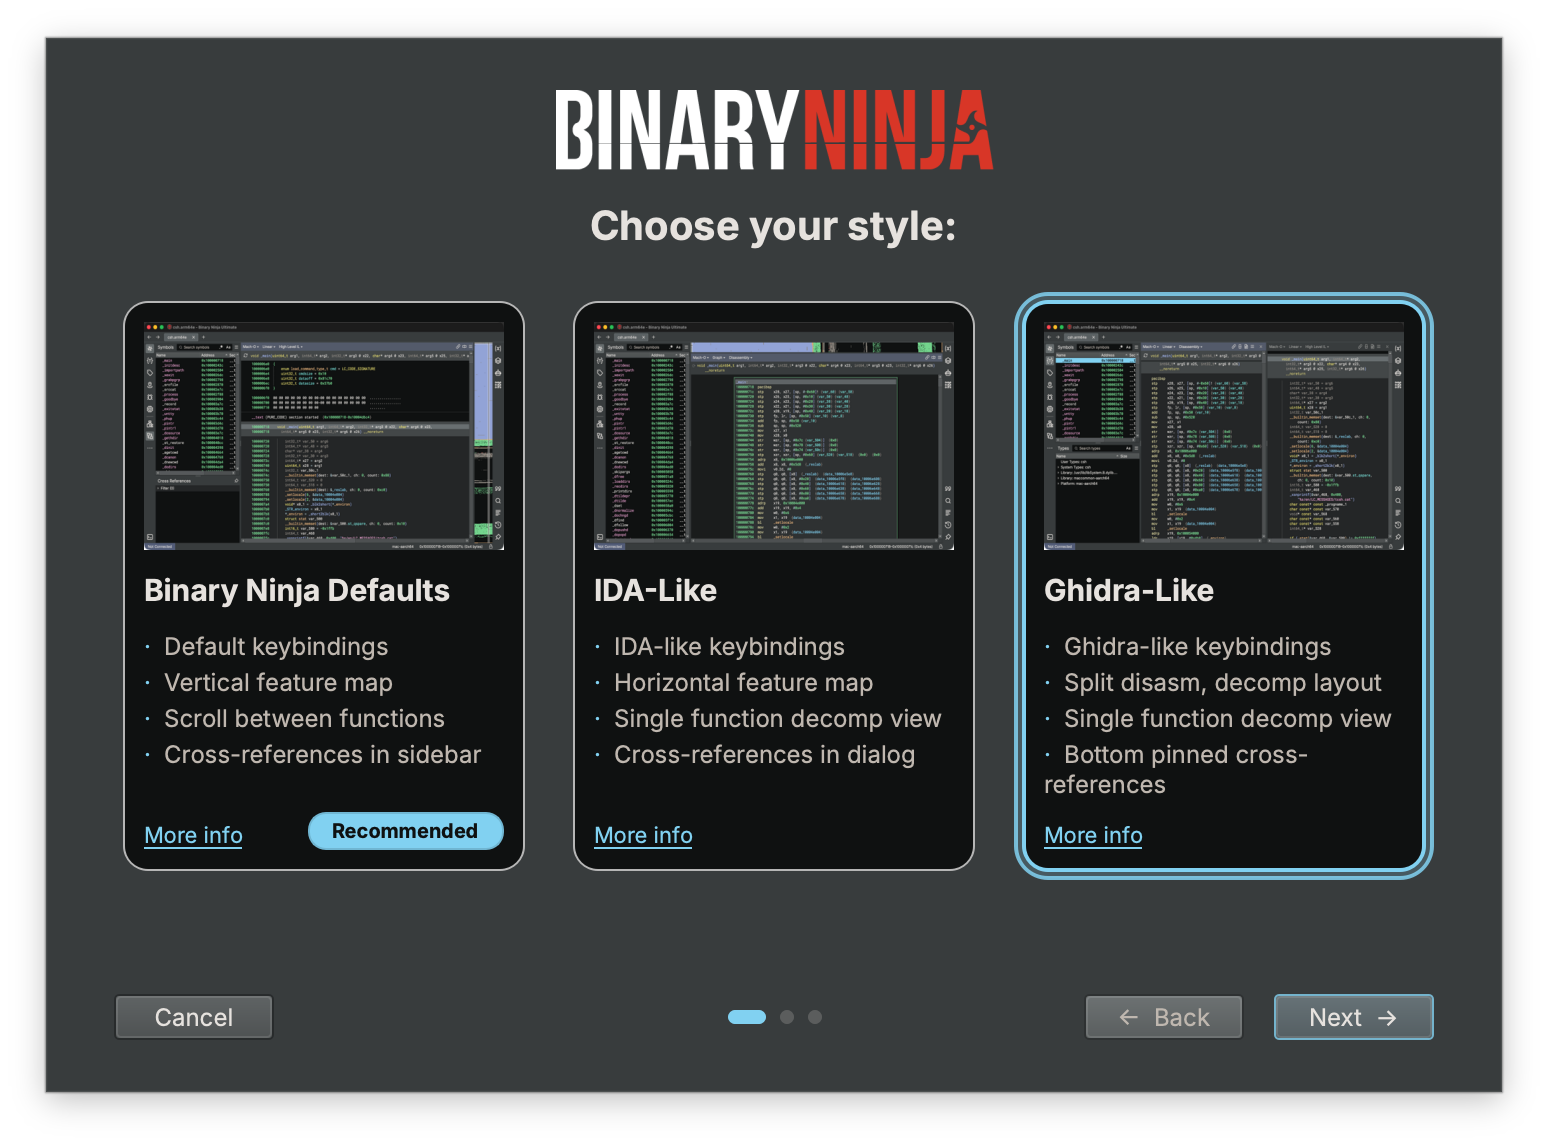
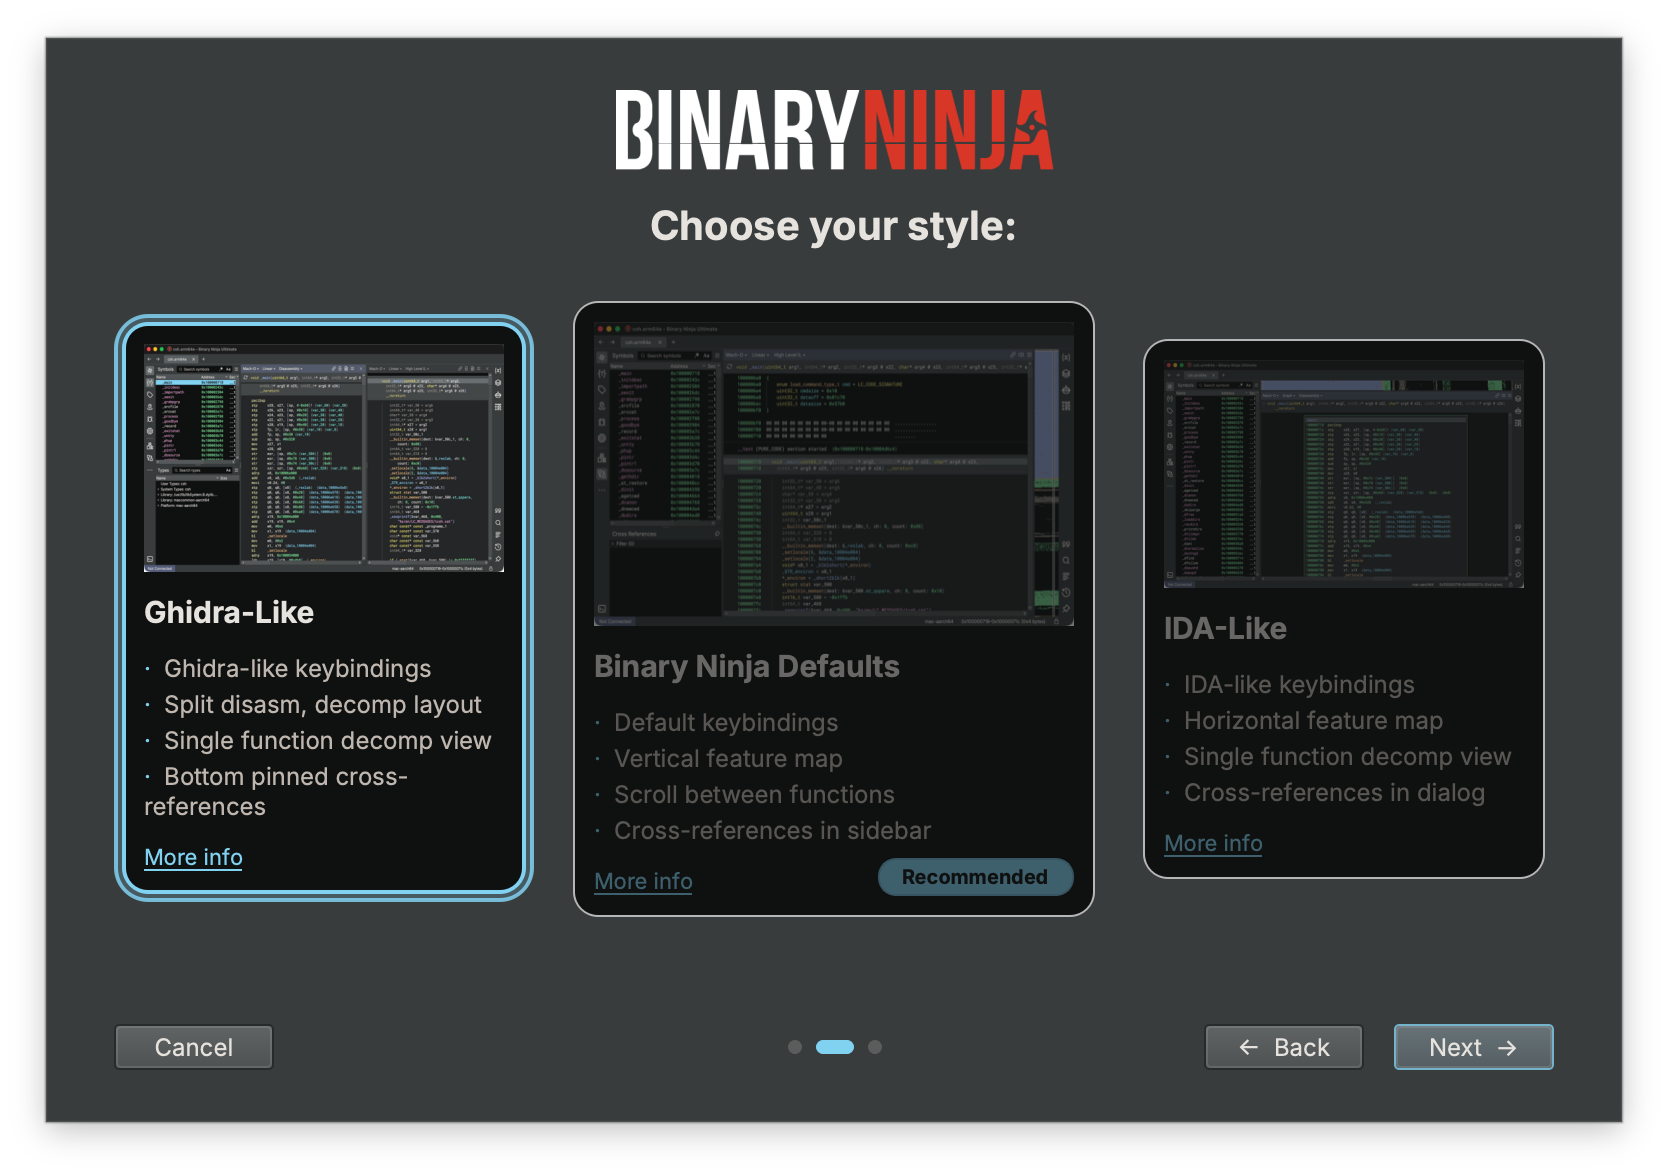
update first run wizard documentation

diff --git a/docs/guide/index.md b/docs/guide/index.md
@@ -65,6 +65,26 @@ When you first run Binary Ninja, it will prompt you for your license key. You sh
 
 Once the license key is installed, you can change it, back it up, or otherwise inspect it simply by looking inside the base of the user folder for `license.dat`.
 
+## First Run Wizard
+
+![First Run Wizard ><](../img/first-bn.png "First Run Wizard"){ width="600" }
+
+The first time you launch Binary Ninja, a short setup wizard helps tailor the interface to your preferences. You can revisit it at any time from `Help / First Run Wizard...`.
+
+The wizard has three steps:
+
+1. **Light or dark?** — Pick a starting theme. Many more are available in the [settings](settings.md) and from the [community themes](https://github.com/vector35/community-themes) collection, and the Theme Manager plugin offers a live preview.
+2. **Choose your style** — Select a starting workflow preset. **Binary Ninja Defaults** is recommended for new users, while the **Ghidra-Like** and **IDA-Like** presets adjust keybindings and UI layout to feel more familiar if you are coming from those tools. See the [migration guides](migration/index.md) — [Migrating from IDA](migration/migrationguideida.md) and [Migrating from Ghidra](migration/ghidra/index.md) — for a detailed description of exactly what each preset changes.
+3. **Important Settings** — Toggle a few privacy and network-related options (automatic crash reporting, automatic update checks, and WARP network features). These, like every other setting, can be changed later in [settings](settings.md).
+
+### Applying a Preset
+
+Selecting the **Ghidra-Like** or **IDA-Like** preset replaces your keybindings and updates a handful of UI settings to match that tool. Selecting **Binary Ninja Defaults** resets those same keybindings and settings back to the Binary Ninja defaults if you have existing settings which makes it a convenient way to undo a previously-applied preset.
+
+The exact keybindings and settings each preset applies are defined by the configuration files in [`docs/files`](https://github.com/Vector35/binaryninja-api/tree/dev/docs/files) in the API repository. If you think a preset could be improved, we welcome suggestions — please open a pull request against those files.
+
+Your existing configuration is never silently overwritten. If applying your selection would change any of your own settings or keybindings, the wizard backs them up first — `settings.json` and `keybindings.json` are copied to numbered backups (for example `settings.json.1` and `keybindings.json.1`) in your [user folder](#user-folder) — and a warning describes what will be backed up. To restore a backup later, simply rename it back into place. Choosing **Cancel** leaves the wizard without touching anything; no changes are applied until you press **Accept**.
+
 ## Linux Setup
 
 Because Linux installation locations can vary widely, we do not assume that Binary Ninja has been installed in any particular folder on Linux. Rather, you can simply run `binaryninja/scripts/linux-setup.sh` after extracting the zip and various file associations, icons, and other settings will be set up. Run it with `-h` to see the customization options.
